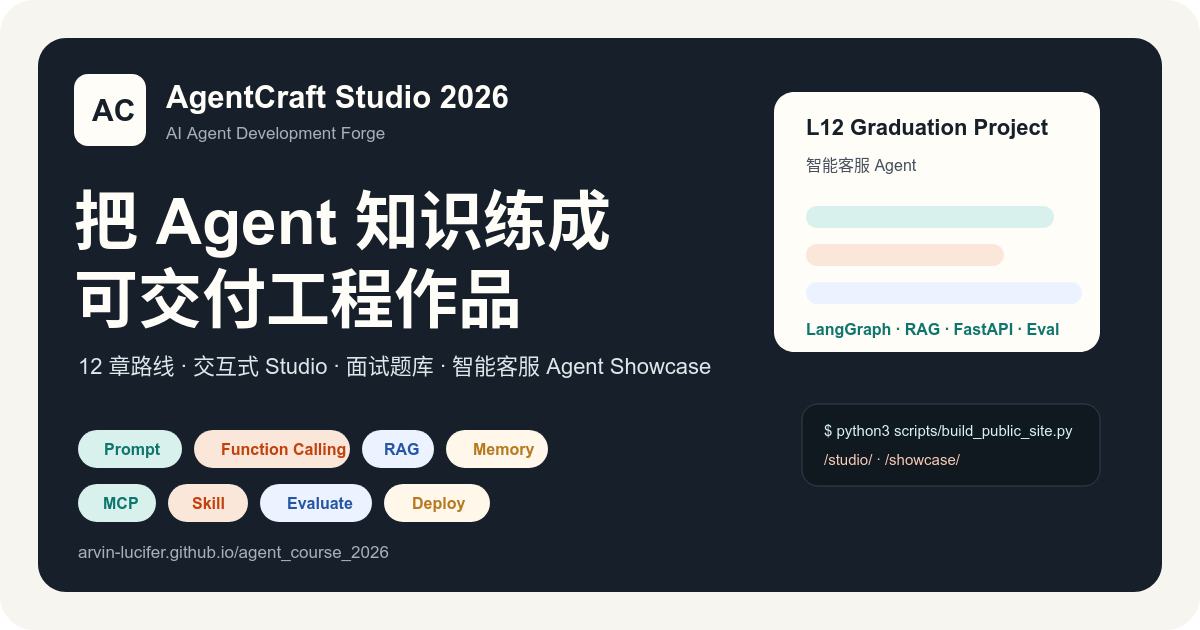
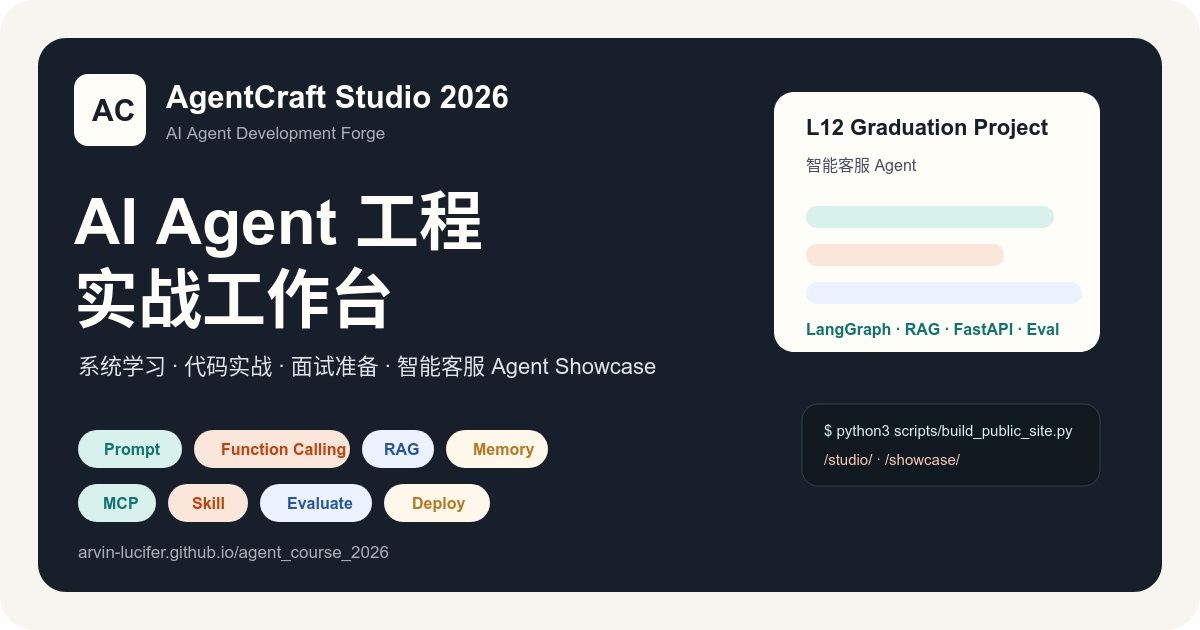
Improve public site headline and preview guidance

Changed region(s): [[0.0617, 0.4222, 0.5858, 0.6032], [0.2775, 0.3016, 0.5242, 0.3921], [0.0617, 0.3016, 0.1233, 0.3921]]

diff --git a/scripts/build_public_site.py b/scripts/build_public_site.py
@@ -86,7 +86,7 @@ def write_public_home(data: dict) -> None:
     />
     <link rel="canonical" href="{PUBLIC_BASE_URL}" />
     <meta property="og:title" content="AgentCraft Studio" />
-    <meta property="og:description" content="把 AI Agent 知识练成可运行、可答辩、可展示的工程作品。" />
+    <meta property="og:description" content="12 章系统路径、交互式 Studio 和智能客服 Agent Showcase，面向 AI Agent 开发学习、实战和项目展示。" />
     <meta property="og:type" content="website" />
     <meta property="og:url" content="{PUBLIC_BASE_URL}" />
     <meta property="og:image" content="{PUBLIC_BASE_URL}assets/agentcraft-social-card.png" />
@@ -130,13 +130,13 @@ def write_public_home(data: dict) -> None:
       <section class="hero">
         <img src="assets/course-roadmap.png" alt="Agent Course roadmap" />
         <div class="hero-copy">
-          <p class="eyebrow">AI Agent Development Forge</p>
-          <h1>把 Agent 知识练成可交付作品</h1>
+          <p class="eyebrow">AgentCraft Studio 2026</p>
+          <h1>AI Agent 工程实战工作台</h1>
           <p>
-            12 章路径覆盖 Prompt、工具调用、LangChain、RAG、记忆系统、MCP、Skill、评测部署与智能客服毕业项目。
+            从系统学习到项目展示：12 章路径、交互式 Studio、面试题库和智能客服 Agent Showcase，帮助你构建可运行、可评测、可讲清楚的 Agent 工程能力。
           </p>
           <div class="hero-actions">
-            <a class="primary" href="studio/">进入 AgentCraft Studio</a>
+            <a class="primary" href="studio/">在线体验 Studio</a>
             <a class="secondary" href="https://github.com/Arvin-Lucifer/agent_course_2026">查看 GitHub 仓库</a>
           </div>
         </div>

diff --git a/DEPLOYMENT.md b/DEPLOYMENT.md
@@ -24,6 +24,10 @@ http://127.0.0.1:8780/studio/
 http://127.0.0.1:8780/showcase/
 ```
 
+Keep the `http.server` command running while previewing. If the browser says
+`connection refused`, no process is serving port `8780`, or the port has not
+been forwarded from the remote development environment.
+
 ## GitHub Pages
 
 After pushing to GitHub, enable Pages from repository settings:
@@ -53,6 +57,9 @@ https://arvin-lucifer.github.io/agent_course_2026/showcase/
 ```
 
 If a custom domain is configured later, add it in GitHub Pages settings and update the repository About URL.
+
+Use the GitHub Pages URLs for normal browsing and sharing. Use `127.0.0.1:8780`
+only for local preview after starting the static server.
 
 ## Validation
 

diff --git a/README.md b/README.md
@@ -51,7 +51,11 @@ python3 -m http.server 8780 --directory docs
 
 ```text
 http://127.0.0.1:8780
+http://127.0.0.1:8780/studio/
+http://127.0.0.1:8780/showcase/
 ```
+
+`127.0.0.1:8780` 只有在上面的 `python3 -m http.server ...` 命令持续运行时才可访问；如果浏览器提示拒绝访问，通常是本地 server 没启动、终端已关闭，或远程开发环境没有转发 `8780` 端口。
 
 ## Experience Preview
 